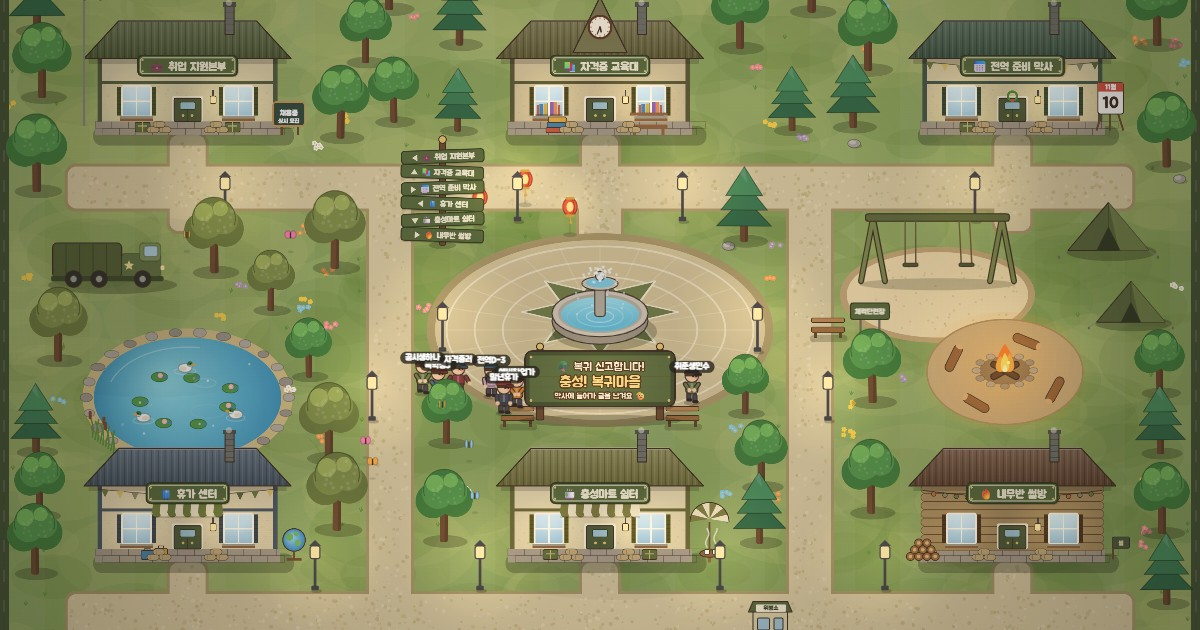
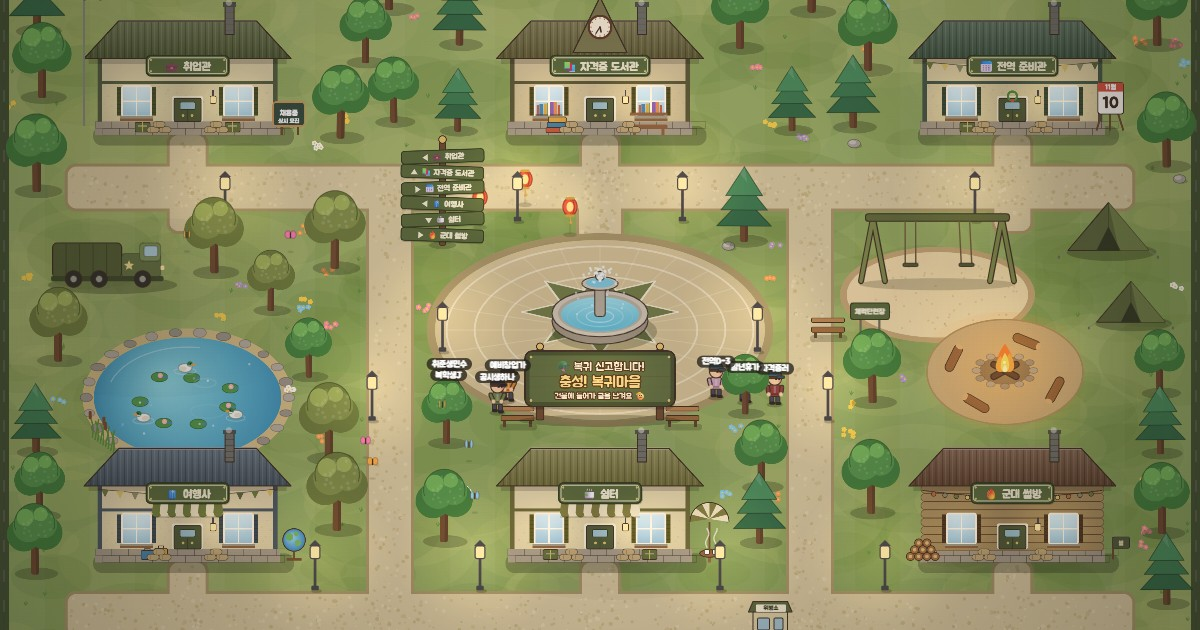
건물 이름을 원래대로 되돌리고 링크 미리보기 이미지 갱신

diff --git a/index.html b/index.html
@@ -208,28 +208,28 @@ const PLAY = { x:1250, y:445 };     // 놀이터(그네)
 const SWINGS = [ { id:'swing0', ax:PLAY.x-36, ay:PLAY.y-70, L:56, ph:0 }, { id:'swing1', ax:PLAY.x+36, ay:PLAY.y-70, L:56, ph:1.7 } ];
 /* 위 세 건물은 윗길(y=330)에, 아래 세 건물은 아랫길(y=900)에 문이 닿아요. route는 광장에서 문 앞까지 가는 길목(주민이 따라 걸어요) */
 const BUILDINGS = [
-  { id:'job', theme:'office', name:'취업 지원본부', emoji:'💼', x:130, y:110, w:240, h:150, wall:'#d9cfa3', roof:'#56673a', trim:'#3c4a28',
+  { id:'job', theme:'office', name:'취업관', emoji:'💼', x:130, y:110, w:240, h:150, wall:'#d9cfa3', roof:'#56673a', trim:'#3c4a28',
     route:[[520,430],[520,330],[250,330]],
     desc:'공채·수시채용, 이력서, 면접 준비',
     example:'이력서에 군 경력을 어떻게 써야 할지 막막해요. 직무와 연결해서 써 보신 분, 방법 좀 알려 주세요.' },
-  { id:'cert', theme:'library', name:'자격증 교육대', emoji:'📚', x:680, y:110, w:240, h:150, wall:'#d6c697', roof:'#6b6a3a', trim:'#47461f',
+  { id:'cert', theme:'library', name:'자격증 도서관', emoji:'📚', x:680, y:110, w:240, h:150, wall:'#d6c697', roof:'#6b6a3a', trim:'#47461f',
     route:[[930,470],[800,400],[800,330]],
     desc:'자격증·어학·공시 준비 스터디',
     example:'전역하고 첫 자격증으로 뭘 준비하셨나요? 목표 직무가 아직 없을 때 어떤 기준으로 골랐는지 궁금해요.' },
-  { id:'soon', theme:'calendar', name:'전역 준비 막사', emoji:'📅', x:1230, y:110, w:240, h:150, wall:'#dccf9f', roof:'#44624a', trim:'#2e4533',
+  { id:'soon', theme:'calendar', name:'전역 준비관', emoji:'📅', x:1230, y:110, w:240, h:150, wall:'#dccf9f', roof:'#44624a', trim:'#2e4533',
     route:[[1080,430],[1080,330],[1350,330]],
     cta:'전역 준비 이야기 남기기', ph:'전역까지 남은 기간, 고민, 준비 중인 것을 남겨 보세요',
     desc:'곧 전역하는 사람들을 위한 준비 공간',
     example:'전역 D-30인데 뭘 준비해야 할지 모르겠어요. 먼저 전역하신 분들은 이 시기에 뭘 하셨나요?' },
-  { id:'trip', theme:'travel', name:'휴가 센터', emoji:'🧳', x:130, y:680, w:240, h:150, wall:'#e0d3a8', roof:'#4a5f6b', trim:'#33444e',
+  { id:'trip', theme:'travel', name:'여행사', emoji:'🧳', x:130, y:680, w:240, h:150, wall:'#e0d3a8', roof:'#4a5f6b', trim:'#33444e',
     route:[[520,600],[520,900],[250,900]],
     desc:'여행, 워킹홀리데이, 해외 경험',
     example:'전역하고 첫 여행을 다녀오신 분 계신가요? 예산은 어떻게 잡으셨는지 궁금해요.' },
-  { id:'rest', theme:'cafe', name:'충성마트 쉼터', emoji:'🍵', x:680, y:680, w:240, h:150, wall:'#e2d6a8', roof:'#7a7a3e', trim:'#55551f',
+  { id:'rest', theme:'cafe', name:'쉼터', emoji:'🍵', x:680, y:680, w:240, h:150, wall:'#e2d6a8', roof:'#7a7a3e', trim:'#55551f',
     route:[[520,600],[520,900],[800,900]],
     desc:'막막할 때, 마음 이야기',
     example:'전역하고 나니 괜히 불안하고 막막한 날이 많아요. 여러분은 그런 날 어떻게 보내세요?' },
-  { id:'story', theme:'cabin', name:'내무반 썰방', emoji:'🔥', x:1230, y:680, w:240, h:150, wall:'#b59a66', roof:'#6a4d33', trim:'#46321f',
+  { id:'story', theme:'cabin', name:'군대 썰방', emoji:'🔥', x:1230, y:680, w:240, h:150, wall:'#b59a66', roof:'#6a4d33', trim:'#46321f',
     route:[[1080,600],[1080,900],[1350,900]],
     desc:'군대에서 있었던 일, 웃긴 썰·힘들었던 썰 풀기',
     cta:'썰 풀기', ph:'그때 있었던 일, 지금 돌아보니 어떤가요?',
@@ -306,7 +306,7 @@ let inModal = false, started = false;
 
 /* NPC: 프로토타입용 가짜 주민 */
 const NPC_NAMES = ['취준생민수','복학생J','자격증러','예비창업가','말년휴가','전역D-3','공시생하나'];
-const NPC_SAYS = ['🫡','오늘 뭐하지…','같이 스터디할 사람?','토익 접수했다','나만 막막한 거 아니었네','PX 가서 쉴까','일단 산책!','이력서 쓰다 왔어요'];
+const NPC_SAYS = ['🫡','오늘 뭐하지…','같이 스터디할 사람?','토익 접수했다','나만 막막한 거 아니었네','쉼터 가서 쉴까','일단 산책!','이력서 쓰다 왔어요'];
 const npcs = NPC_NAMES.map((n,i) => ({
   name:n, uni:COLORS_UNI[i%6], cap:COLORS_CAP[(i*2+1)%6],
   x:PLAZA.x+(Math.random()<.5?-1:1)*(110+Math.random()*130), y:PLAZA.y+84+Math.random()*30, dir:1, step:Math.random()*9, say:'', sayT:0, speed:62+Math.random()*30,
@@ -748,7 +748,7 @@ function buildWelcome(){
   const line = (txt, y, size, col) => { fitText(g,txt,176,size); g.lineWidth = 3.2; g.strokeStyle = 'rgba(80,44,14,.85)'; g.strokeText(txt,0,y); g.fillStyle = col; g.fillText(txt,0,y); };
   line('🪖 복귀 신고합니다!', -64, 15, '#fff6dc');
   line('충성! 복귀마을', -42, 20, '#ffe08a');
-  line('막사에 들어가 글을 남겨요 🫡', -26.5, 10.5, '#fff6dc');
+  line('건물에 들어가 글을 남겨요 🫡', -26.5, 10.5, '#fff6dc');
   return c;
 }
 let bgCv = null, treeSpr = [], signSpr = null, welcomeSpr = null;

diff --git a/admin.html b/admin.html
@@ -54,7 +54,7 @@
   </div>
 </div>
 <script>
-const NAMES = { job:'💼 취업 지원본부', cert:'📚 자격증 교육대', soon:'📅 전역 준비 막사', trip:'🧳 휴가 센터', rest:'🍵 충성마트 쉼터', story:'🔥 내무반 썰방' };
+const NAMES = { job:'💼 취업관', cert:'📚 자격증 도서관', soon:'📅 전역 준비관', trip:'🧳 여행사', rest:'🍵 쉼터', story:'🔥 군대 썰방' };
 const $ = s => document.querySelector(s);
 let KEY = '';
 try { KEY = sessionStorage.getItem('hv_adm') || ''; } catch (e) {}

diff --git a/README.md b/README.md
@@ -11,12 +11,12 @@
 
 | 건물 | 이야기하는 것 |
 |---|---|
-| 💼 취업 지원본부 | 공채·수시채용, 이력서, 면접 준비 |
-| 📚 자격증 교육대 | 자격증·어학·공시 준비 스터디 |
-| 📅 전역 준비 막사 | 곧 전역하는 사람들을 위한 준비 공간 |
-| 🧳 휴가 센터 | 여행, 워킹홀리데이, 해외 경험 |
-| 🍵 충성마트 쉼터 | 막막할 때 나누는 마음 이야기 |
-| 🔥 내무반 썰방 | 군대에서 있었던 일, 웃긴 썰·힘들었던 썰 |
+| 💼 취업관 | 공채·수시채용, 이력서, 면접 준비 |
+| 📚 자격증 도서관 | 자격증·어학·공시 준비 스터디 |
+| 📅 전역 준비관 | 곧 전역하는 사람들을 위한 준비 공간 |
+| 🧳 여행사 | 여행, 워킹홀리데이, 해외 경험 |
+| 🍵 쉼터 | 막막할 때 나누는 마음 이야기 |
+| 🔥 군대 썰방 | 군대에서 있었던 일, 웃긴 썰·힘들었던 썰 |
 
 ## 주요 기능
 
